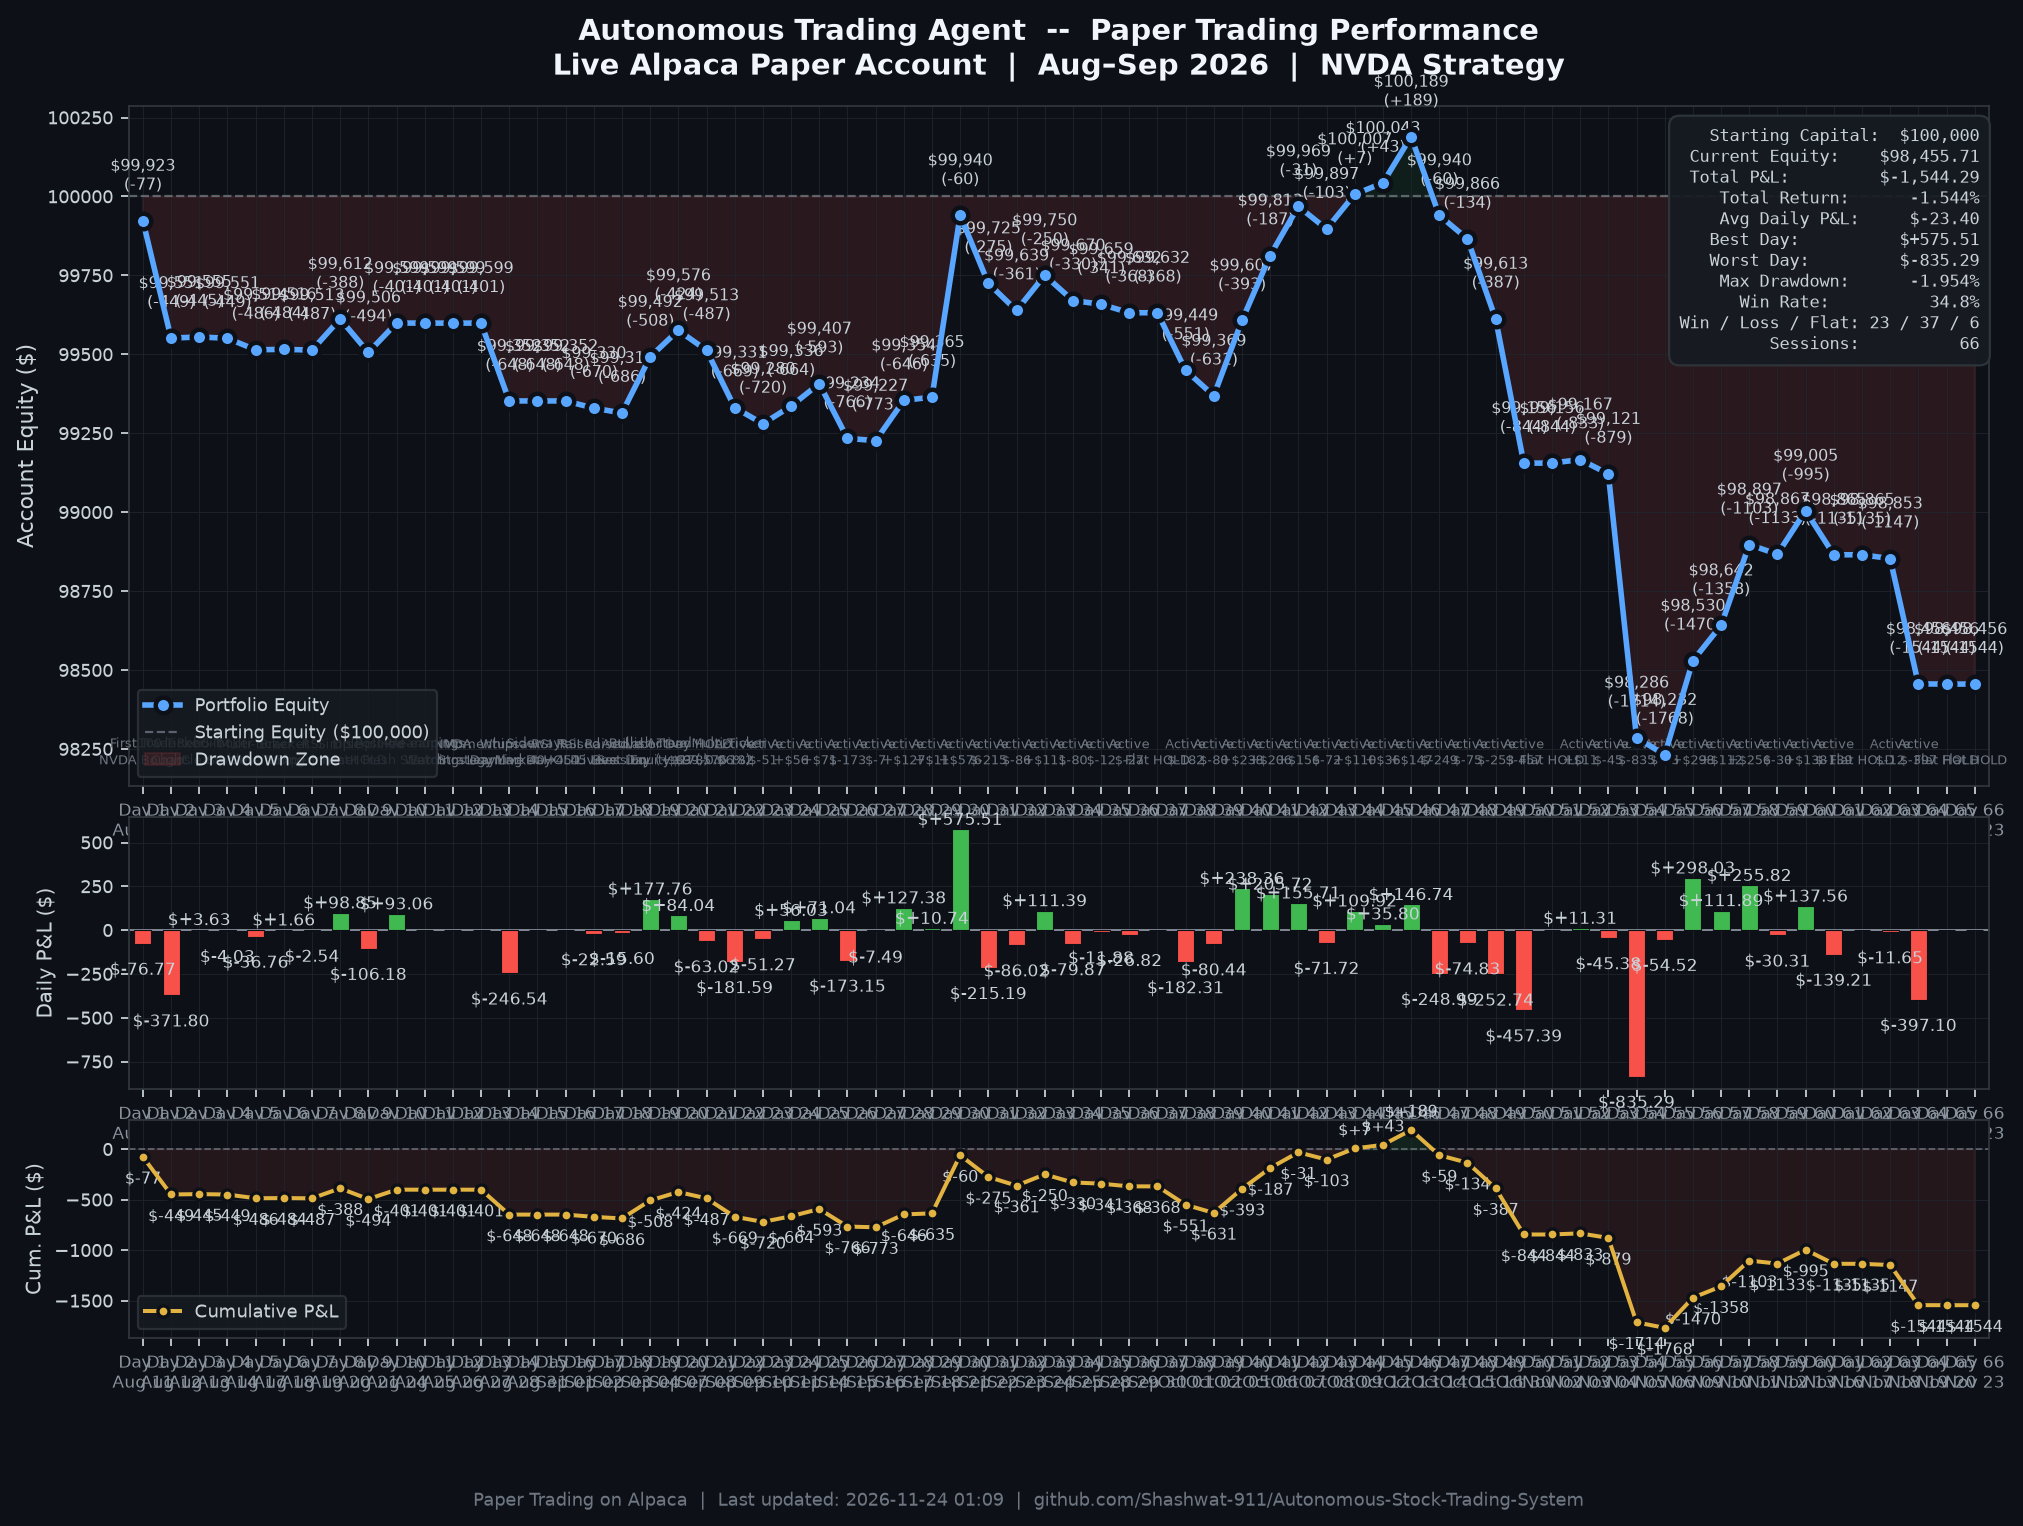
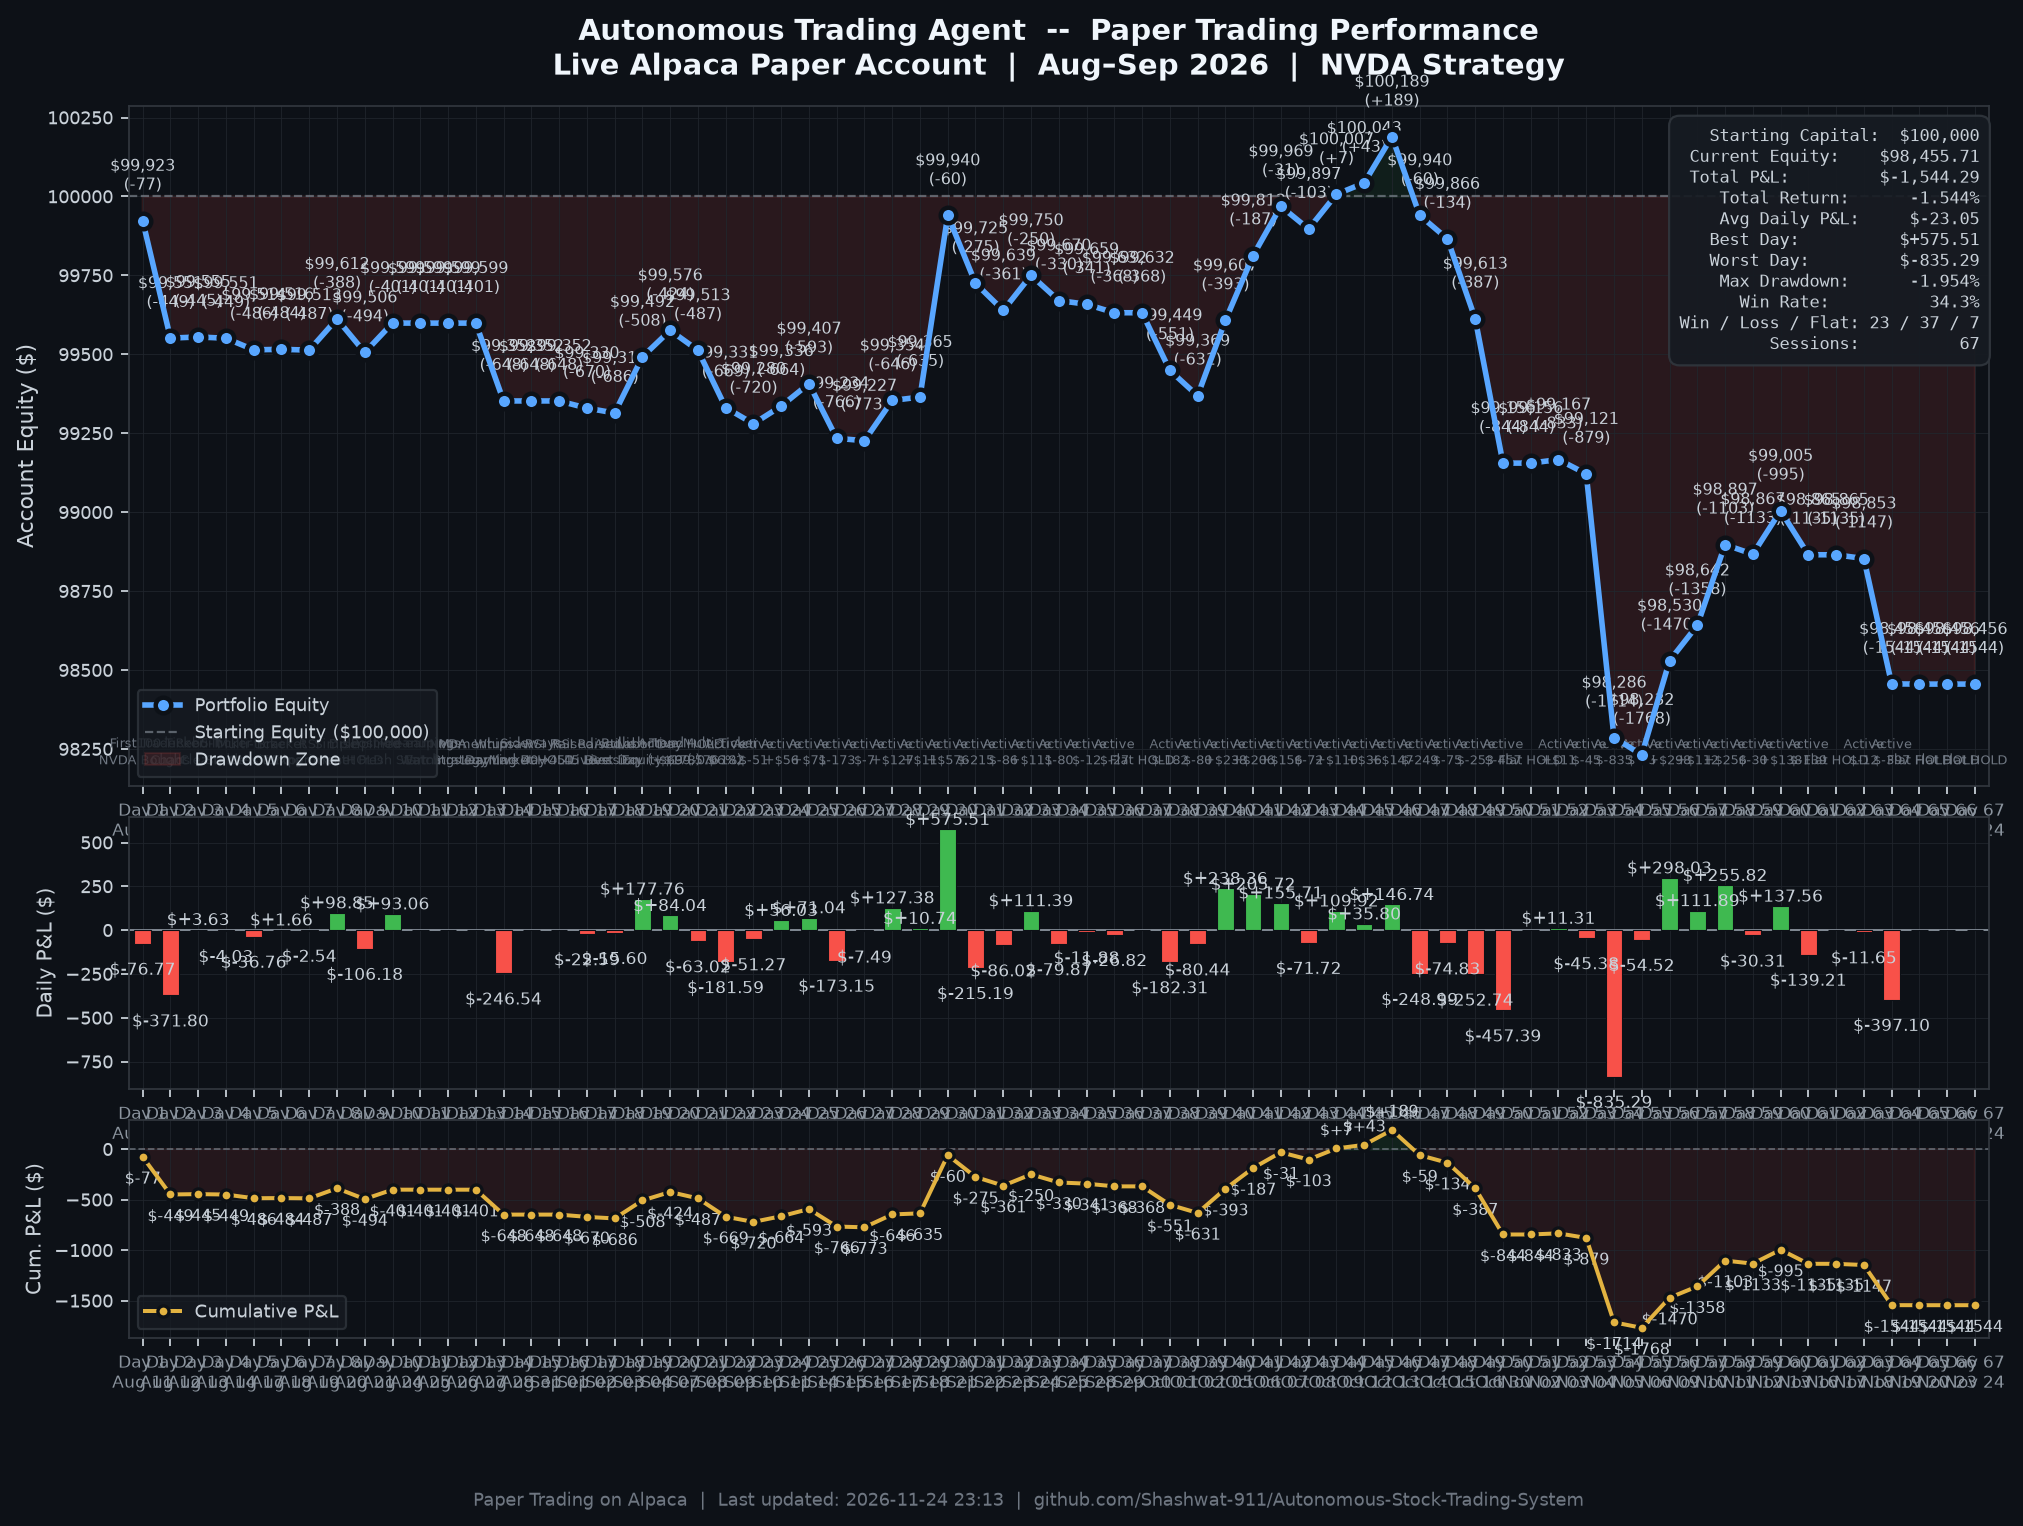
auto(session): 2026-11-24 | equity=$98,456 | return=-1.544%

Changed region(s): [[0.0623, 0.0308, 0.9965, 0.8316], [0.0623, 0.77, 0.9965, 0.924], [0.0934, 0.5852, 0.218, 0.6468]]

diff --git a/README.md b/README.md
@@ -47,7 +47,7 @@ The automated trading bot is deployed in the cloud on Render with continuous mon
 
 > **Paper Trading on Alpaca** | Started: Aug 11, 2026 | Initial Capital: $100,000.00 | Universe: NVDA, TSLA, META, MSFT, AAPL (5-Stock High-Momentum Universe)
 
-![Daily P&L Chart](outputs/daily_pnl_chart.png?v=20261123)
+![Daily P&L Chart](outputs/daily_pnl_chart.png?v=20261124)
 
 *Chart auto-generated from live Alpaca Portfolio History API and verified session telemetry via [`scripts/generate_pnl_chart.py`](scripts/generate_pnl_chart.py).*
 
@@ -121,8 +121,9 @@ The automated trading bot is deployed in the cloud on Render with continuous mon
 | **Day 64** | Nov 19 (Thu) | $98,456.34 | -$397.10 | -$1543.66 | -1.544% | Loss Session (-$397.10) |
 | **Day 65** | Nov 20 (Fri) | $98,455.71 | -$0.63 | -$1544.29 | -1.544% | Flat Session - Disciplined HOLD |
 | **Day 66** | Nov 23 (Mon) | $98,455.71 | $0.00 | -$1544.29 | -1.544% | Flat Session - Disciplined HOLD |
+| **Day 67** | Nov 24 (Tue) | $98,455.71 | $0.00 | -$1544.29 | -1.544% | Flat Session - Disciplined HOLD |
 
-> **Current Equity**: $98,455.71 | **Total P&L**: $-1,544.29 | **Best Day**: $+575.51 | **Win Rate**: 34.8% (23W / 37L / 6 Flat) | **Max Drawdown**: -1.768% | **Sessions**: 66
+> **Current Equity**: $98,455.71 | **Total P&L**: $-1,544.29 | **Best Day**: $+575.51 | **Win Rate**: 34.3% (23W / 37L / 7 Flat) | **Max Drawdown**: -1.768% | **Sessions**: 67
 ---
 
 ## System Architecture
